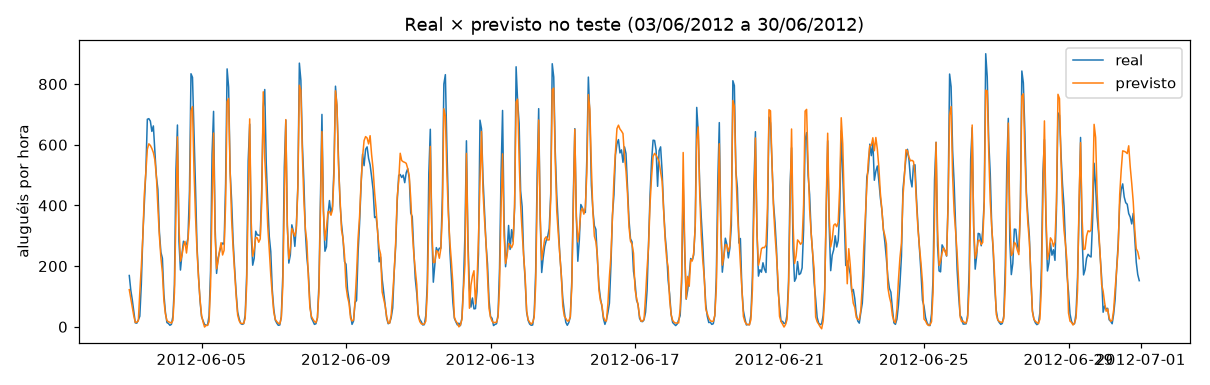
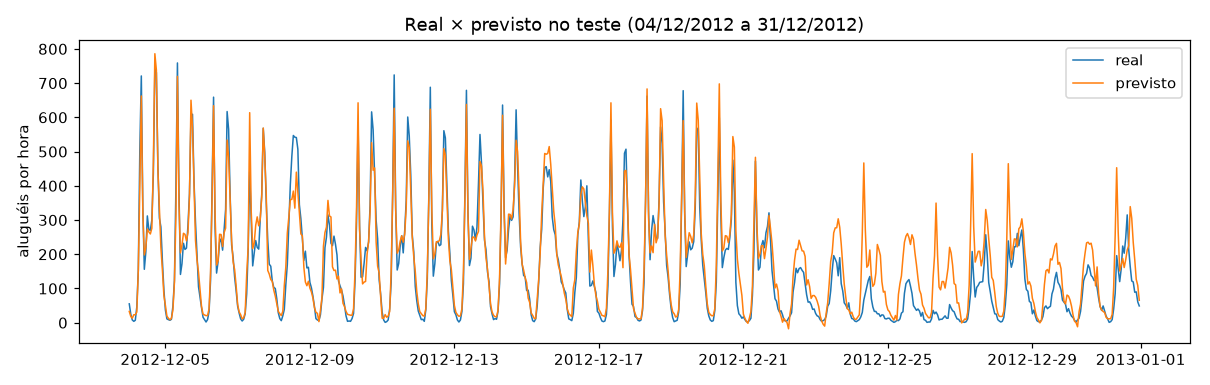
Desafio 1: dados v3, estágio compare e decisão

diff --git a/desafio01/compare_models.py b/desafio01/compare_models.py
@@ -1,0 +1,73 @@
+"""Desafio 1: compara @champion e @challenger no MESMO conjunto de teste.
+
+Rode da raiz do repositório:
+    python desafio01/compare_models.py              # só compara (é o que o estágio `compare` roda)
+    python desafio01/compare_models.py --promover   # compara e aplica a decisão no Registry
+
+Complete os 3 trechos marcados com TODO.
+"""
+import argparse
+import json
+import sys
+from pathlib import Path
+
+import mlflow
+import pandas as pd
+from mlflow import MlflowClient
+
+sys.path.insert(0, "src")
+from bike import MODEL_NAME, regression_metrics, tracking_uri, xy  # noqa: E402
+
+parser = argparse.ArgumentParser()
+parser.add_argument("--promover", action="store_true", help="aplica a decisão no Registry")
+args = parser.parse_args()
+
+mlflow.set_tracking_uri(tracking_uri())
+client = MlflowClient()
+
+# 1) O candidato é a versão criada pelo último treino do pipeline
+nova_versao = json.load(open("models/run.json"))["model_version"]
+client.set_registered_model_alias(MODEL_NAME, "challenger", nova_versao)
+
+# 2) O mesmo teste para os dois: o período mais recente
+test = pd.read_csv("data/split/test.csv")
+X, y = xy(test)
+
+resultado = {}
+for alias in ["champion", "challenger"]:
+    versao = int(client.get_model_version_by_alias(MODEL_NAME, alias).version)
+    # TODO 1: carregue o modelo pelo alias (dica: mlflow.pyfunc.load_model, como na função avaliar da T3)
+    model = mlflow.pyfunc.load_model(f"models:/{MODEL_NAME}@{alias}")
+    # TODO 2: calcule as métricas desse modelo em X, y (dica: regression_metrics)
+    metricas = regression_metrics(y, model.predict(X))
+    resultado[alias] = {"versao": versao, **metricas}
+
+resultado["teste"] = {"inicio": test["dteday"].min(), "fim": test["dteday"].max(), "linhas": len(test)}
+Path("reports").mkdir(exist_ok=True)
+json.dump(resultado, open("reports/comparacao.json", "w"), indent=2)
+
+champ, chall = resultado["champion"], resultado["challenger"]
+print(pd.DataFrame({"champion": champ, "challenger": chall}).T.round(3))
+periodo = f"{test['dteday'].min()} a {test['dteday'].max()}"
+print(f"\nTeste: {periodo} ({len(test)} linhas)")
+
+# TODO 3: a regra de decisão. O challenger vence se o RMSE dele for menor que o do champion
+venceu = chall["rmse"] < champ["rmse"]
+print(f"Challenger {'VENCEU' if venceu else 'NÃO venceu'}: "
+      f"RMSE {chall['rmse']:.1f} vs {champ['rmse']:.1f} (champion)")
+
+# 3) Decisão de governança, registrada na própria versão (só com --promover)
+if args.promover:
+    v = str(chall["versao"])
+    motivo = f"RMSE {chall['rmse']:.1f} vs {champ['rmse']:.1f} do champion v{champ['versao']} no teste {periodo}"
+    client.set_model_version_tag(MODEL_NAME, v, "motivo", motivo)
+    if venceu:
+        client.set_model_version_tag(MODEL_NAME, v, "decisao", "promovido")
+        client.set_model_version_tag(MODEL_NAME, v, "validation_status", "approved")
+        client.set_model_version_tag(MODEL_NAME, v, "previous_champion", str(champ["versao"]))
+        client.set_registered_model_alias(MODEL_NAME, "champion", v)
+        client.delete_registered_model_alias(MODEL_NAME, "challenger")
+        print(f"✅ Promovido: champion -> versão {v} (anterior: {champ['versao']})")
+    else:
+        client.set_model_version_tag(MODEL_NAME, v, "decisao", "rejeitado")
+        print(f"❌ Rejeitado: champion continua na versão {champ['versao']}")

diff --git a/desafio01/README.md b/desafio01/README.md
@@ -1,0 +1,94 @@
+# Desafio 1: chegaram dados novos
+
+**Contexto.** É janeiro de 2013. O time de operações exportou os dados do 2º semestre de 2012.
+Sua missão: versionar os dados, retreinar com o pipeline e **decidir, com evidência**, se o
+modelo novo deve substituir o `@champion`.
+
+**Pré-requisitos:** T0–T4 concluídas no seu Codespace e o servidor MLflow no ar
+(`bash scripts/start_mlflow.sh` em um terminal).
+
+**Antes de começar:** arraste a pasta `desafio01/` para a raiz do seu repositório no Codespace
+(no explorador de arquivos, ao lado de `src/` e `params.yaml`).
+
+**O que você recebe e o que você constrói:**
+
+| O que você recebe | O que você constrói |
+|---|---|
+| Os comandos para versionar os dados v3 (abaixo) | A versão `dados-v3` |
+| `desafio01/compare_models.py`, com a estrutura da comparação | Os 3 trechos marcados com `TODO` (carregar, medir, decidir) |
+| O pipeline da T1, com 5 estágios | O 6º estágio, `compare`, no `dvc.yaml` |
+| `desafio01/RELATORIO.md`, com as seções | As tabelas e a decisão justificada |
+
+## Passo 1: dados v3 (a receita da T4)
+
+```bash
+python src/get_data.py --until 2012-12-31
+dvc add data/raw/bike.csv
+git add data/raw/bike.csv.dvc
+git commit -m "Dados v3: 2012 completo"
+git tag dados-v3
+dvc push
+```
+
+## Passo 2: complete o `compare_models.py`
+
+Abra `desafio01/compare_models.py` e complete os 3 `TODO`. As dicas estão no próprio arquivo.
+O script avalia `@champion` e `@challenger` **no mesmo teste** e grava `reports/comparacao.json`.
+
+## Passo 3: escreva o estágio `compare` no `dvc.yaml`
+
+Acrescente um 6º estágio no fim do `dvc.yaml`, no mesmo molde dos estágios da T1:
+
+| Chave | O que colocar |
+|---|---|
+| `cmd` | `python desafio01/compare_models.py` |
+| `deps` | o próprio script, a pasta `models` e `data/split/test.csv` |
+| `metrics` | `reports/comparacao.json`, com `cache: false` (igual ao `metrics.json` do `evaluate`) |
+
+Confira com `dvc dag`: o `compare` deve aparecer depois do `train`.
+
+## Passo 4: retreinar e comparar
+
+```bash
+dvc repro                    # prepare → split → train (nova versão no Registry) → evaluate, plot e compare
+cat reports/comparacao.json
+dvc metrics diff             
+dvc push
+```
+
+## Passo 5: decidir
+
+```bash
+python desafio01/compare_models.py --promover
+```
+
+Com `--promover`, o script aplica a decisão no Registry: grava as tags `decisao` e `motivo` na versão nova
+e, se ela venceu, move o `@champion` (guardando `previous_champion`). Confira na interface: **Models → bike-demand**.
+
+## Passo 6: relatório
+
+Preencha `desafio01/RELATORIO.md`. As instruções estão em cada seção.
+
+## Passo 7: entrega
+
+```bash
+git add dvc.yaml dvc.lock metrics.json reports/ desafio01/
+git commit -m "Desafio 1: dados v3, estágio compare e decisão"
+git push
+git push --tags
+```
+
+Envie o link do repositório no Canvas.
+
+## Critérios de avaliação (10 pontos)
+
+| Critério | O que vou conferir no repositório | Pontos |
+|---|---|---|
+| Dados v3 versionados | tag `dados-v3`, `bike.csv.dvc` no Git, `dvc push` feito | 2 |
+| Estágio `compare` | no `dvc.yaml` e no `dvc.lock` (6 estágios) | 3 |
+| Comparação justa | `compare_models.py` completo e `reports/comparacao.json` commitado | 1 |
+| Governança | `@champion` correto; tags `decisao`, `motivo` e `previous_champion` | 1 |
+| Relatório | tabelas preenchidas e decisão justificada | 3 |
+
+> 💡 O MLflow desta aula vive **dentro do seu Codespace**. Não apague o Codespace antes da Aula 2.
+> Codespaces parados são apagados automaticamente após um período sem uso (30 dias, por padrão).

diff --git a/desafio01/RELATORIO.md b/desafio01/RELATORIO.md
@@ -1,0 +1,49 @@
+# Desafio 1: relatório
+
+**Aluno(a):** Gabriel
+
+## 1. Versões dos dados
+
+Rode o comando abaixo e complete a tabela com os 8 primeiros caracteres de cada md5:
+
+```bash
+for tag in dados-v1 dados-v2 dados-v3; do
+  echo "$tag $(git show $tag:data/raw/bike.csv.dvc | awk '/md5/{print $3}')"
+done
+```
+
+| Tag | md5 (8 primeiros caracteres) | Período |
+|---|---|---|
+| `dados-v1` | `fc7d423a` | 01/01/2011 a 31/12/2011 |
+| `dados-v2` | `11e40c60` | 01/01/2011 a 30/06/2012 |
+| `dados-v3` | `7747b2ef` | 01/01/2011 a 31/12/2012 |
+
+## 2. Comparação no mesmo teste
+
+Copie os números de `reports/comparacao.json`.
+
+**Período do teste:** 04/12/2012 a 31/12/2012 (670 linhas)
+
+| Alias | Versão | RMSE | MAE | R² |
+|---|---|---|---|---|
+| `@champion` | 5 | 91,88 | 63,96 | 0,675 |
+| `@challenger` | 7 | 64,60 | 43,85 | 0,839 |
+
+## 3. Decisão
+
+**Promovido ou rejeitado?** Promovido. O `@champion` passou da versão 5 para a versão 7 (a anterior ficou registrada na tag `previous_champion`).
+
+**Justificativa (2 a 3 frases):**
+Os dois modelos foram avaliados no mesmo conjunto de teste (04/12/2012 a 31/12/2012, 670 linhas), então a comparação é justa. O challenger (v7) teve RMSE de 64,60 contra 91,88 do champion (v5), uma redução de cerca de 30%, e também ficou melhor em MAE (43,85 contra 63,96) e em R² (0,839 contra 0,675). Pela regra definida (vence quem tiver menor RMSE), ele foi promovido. A diferença em `metrics.json` frente ao commit anterior não serve de base para a decisão, porque aquele valor foi medido em outro período de teste.
+
+## 4. O que cada ferramenta fez nesse projeto?
+
+**Pergunta 01:**
+Com suas palavras, quais os dois usos do DVC nesse projeto?
+
+O primeiro uso é versionar os dados: o arquivo `bike.csv` fica no armazenamento do DVC, e o Git guarda só o arquivo `.dvc` com o md5. Assim cada tag (`dados-v1`, `dados-v2`, `dados-v3`) aponta para uma versão exata dos dados. O segundo uso é orquestrar o pipeline em estágios (prepare, split, train, evaluate, plot e compare) pelo `dvc.yaml`. O `dvc repro` só reexecuta o que mudou e o `dvc.lock` registra com quais entradas cada resultado foi gerado, o que deixa o processo reproduzível.
+
+**Pergunta 02:**
+Com suas palavras, para que serve o MLflow nesse projeto?
+
+O MLflow registra os treinos (parâmetros, métricas e artefatos) e guarda os modelos no Model Registry, com versões numeradas. Os aliases `@champion` e `@challenger` indicam qual versão está em produção e qual está sendo avaliada, e as tags (`decisao`, `motivo`, `previous_champion`) deixam gravada, na própria versão, a decisão de promoção e o motivo dela.
